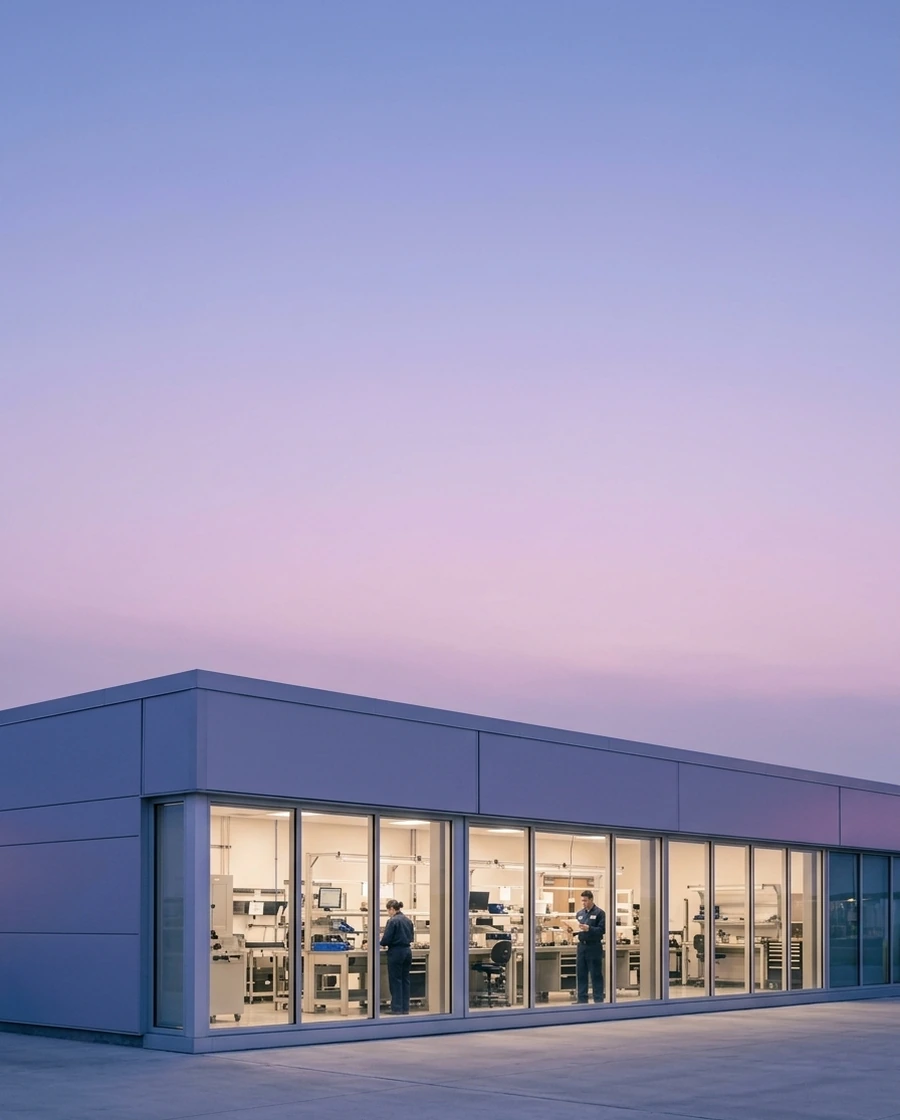
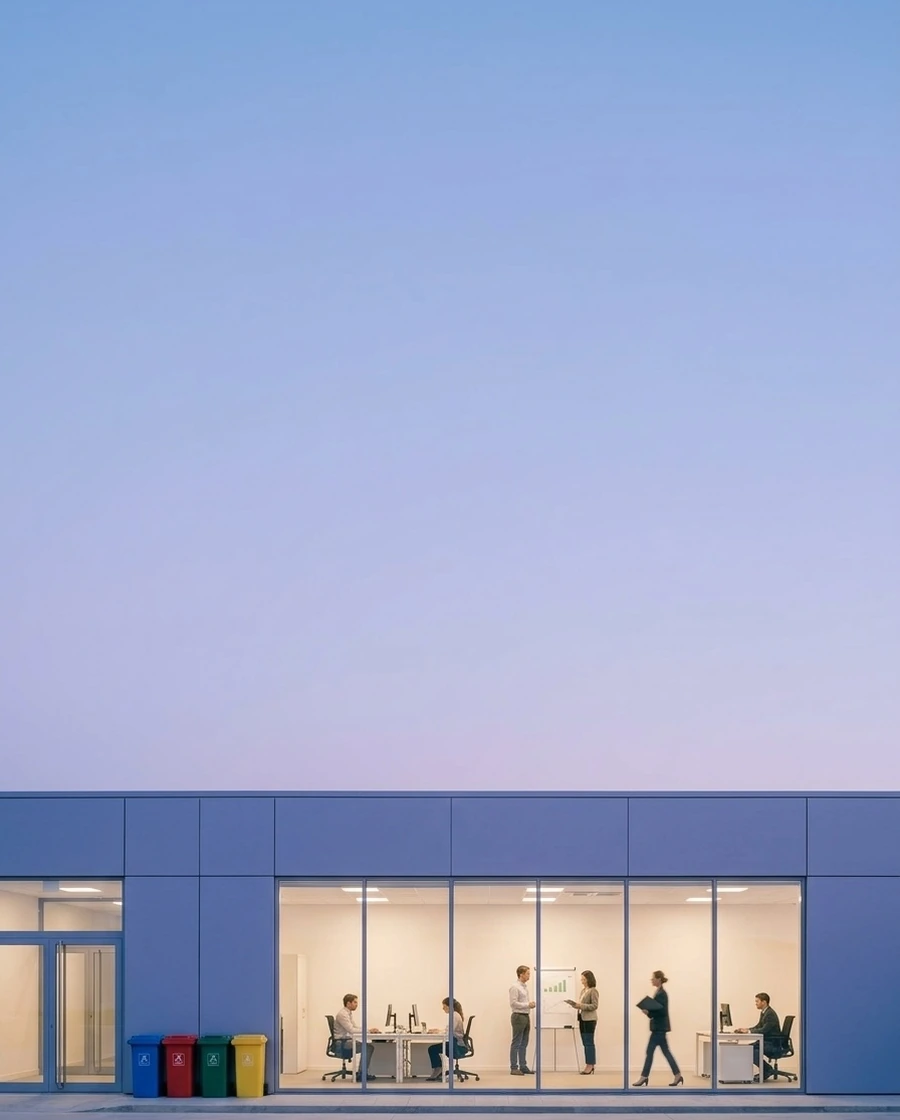
home: nova foto da ISO (escritorio baixo com pessoas e coleta seletiva), ceu alinhado com as outras

diff --git a/index.html b/index.html
@@ -2582,7 +2582,7 @@ body>*{position:relative;z-index:1}
         </div>
       </article>
       <article class="sh-col sh-col--iso">
-        <img class="sh-foto" src="img/flow-iso-cor-bayer-fl.webp?v=30092026d" data-lum="img/flow-iso-cor-fl.webp?v=30092026d" alt="" loading="eager" decoding="sync" fetchpriority="high">
+        <img class="sh-foto" src="img/flow-iso-cor-bayer-fl.webp?v=30092026e" data-lum="img/flow-iso-cor-fl.webp?v=30092026e" alt="" loading="eager" decoding="sync" fetchpriority="high">
         <div class="sh-conteudo">
           <div>
             <span class="sh-indice">[ 02 ]</span>

diff --git a/_ferramentas/fotos_cor.py b/_ferramentas/fotos_cor.py
@@ -60,7 +60,8 @@ FONTE = {
     'refinaria': 'refinaria-campo-ceu.jpg',
     # 29/09: as quatro fotos feitas no Google Flow (Nano Banana 2) para a tira de teste
     'flow-carbono': 'flow-gestao-carbono-4-recorte.jpg',   # 29/09: a 4a, recortada para o lago ocupar 1/4 como no ESG (o cru inteiro e -4.jpg); antes -2 (chamine) e a 1a
-    'flow-iso': 'flow-implantacao-iso-5.jpg',   # 30/09: a 5a (fabrica de vidro, linha vista pela janela); antes -4-recorte
+    'flow-iso': 'flow-implantacao-iso-6-recorte.jpg',   # 30/09: a 6a (escritorio baixo, pessoas e coleta seletiva); piso cortado 7%, ceu esticado; cru = -6.jpg
+   #   # 30/09: a 5a (fabrica de vidro, linha vista pela janela); antes -4-recorte
    #   # 30/09: a 4a (tres colegas e o tablet), chao cortado e ceu esticado; o cru e -4.jpg
    #   # 30/09: a 3a (linha coberta com o inspetor); antes -2 (predio de vidro)
    #   # 29/09: a 2a (o predio de vidro); a 1a era flow-implantacao-iso.jpg
